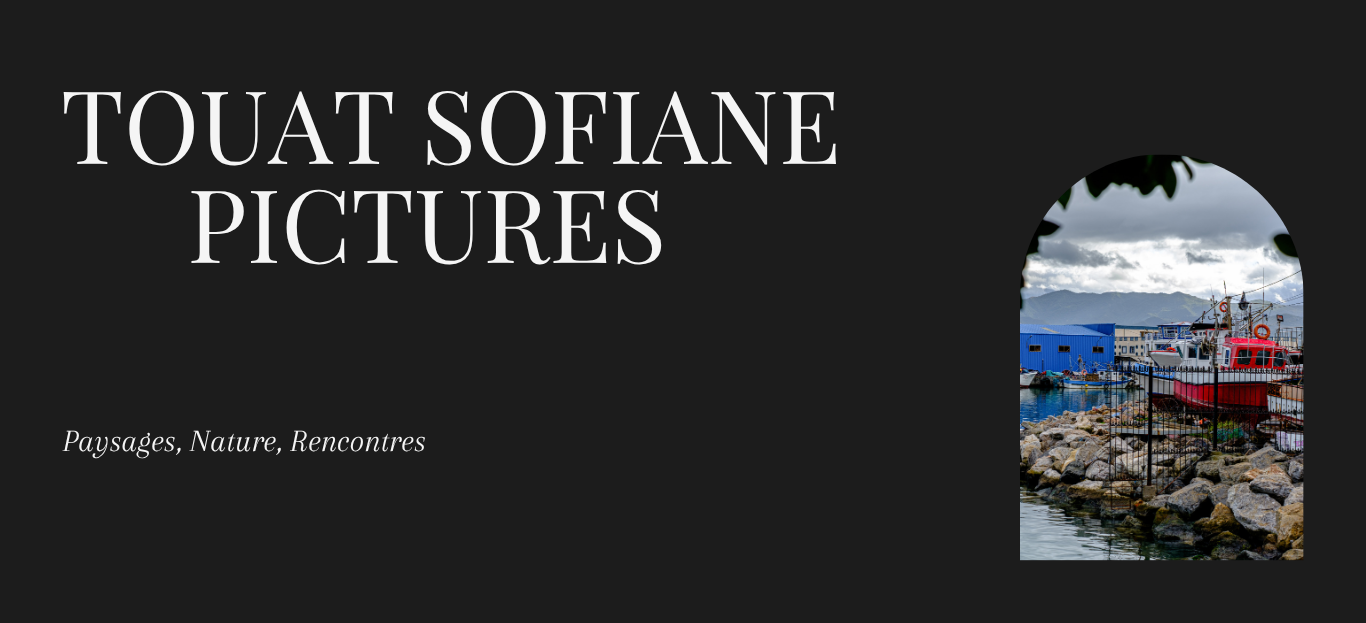
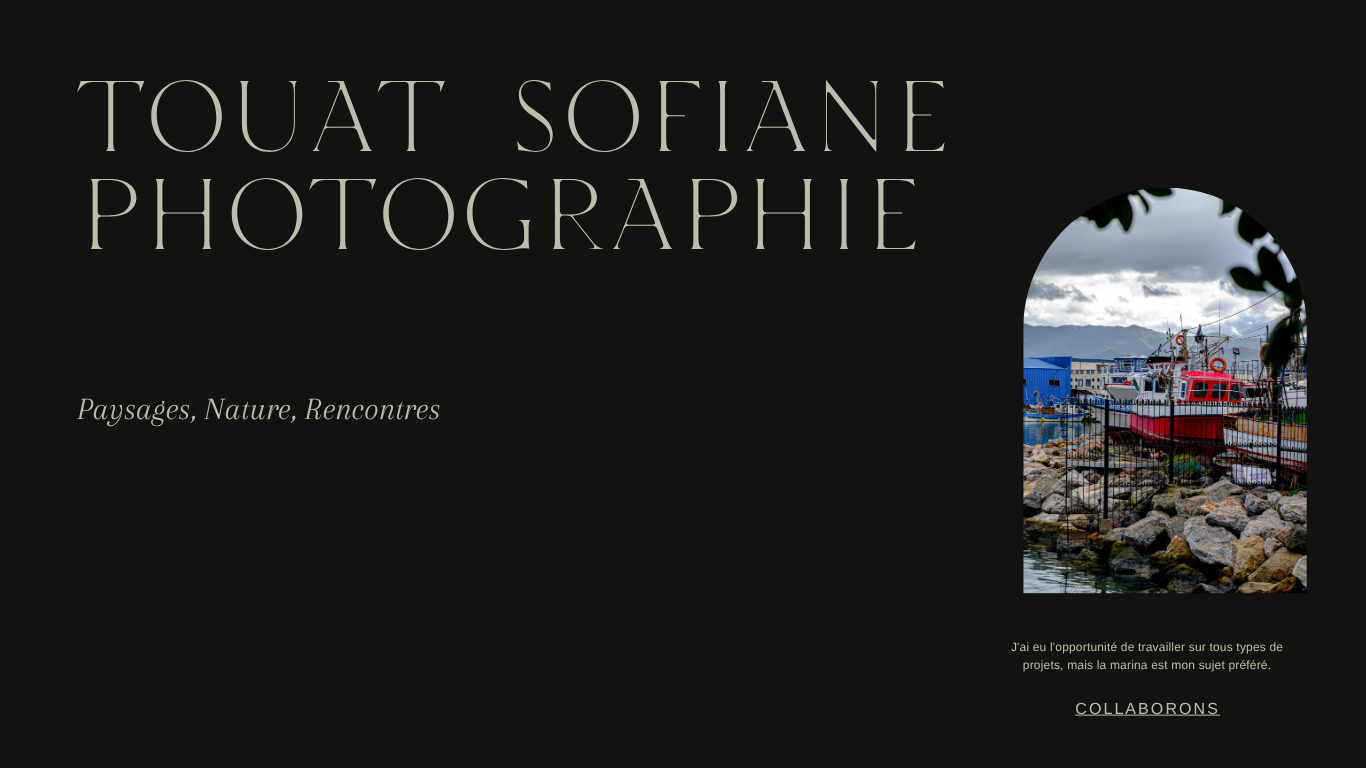
plusieurs ajouts d'images et coorectifs

diff --git a/index.html b/index.html
@@ -6,31 +6,31 @@
     <title>Sofiane's portfolio</title>
 </head>
 <!--ajout d'un background pour le site , dans le body-->
-<body style="background-color: #F5F5F5;font-family :'Segoe UI', Tahoma, Geneva, Verdana, sans-serif">
+<body style="background-color: #F5F5F5;font-family:fantasy  ">
     <header>
          <nav>   
-            <ul style="display:flex; justify-content:left;color: rgb(181,47,0); list-style:none; gap: 20px;font-size: 20px;font-family: 'Franklin Gothic Medium', 'Arial Narrow', Arial, sans-serif;">
-                <li><a href="index.html"style="color: rgb(181,47,0);">Home</a></li>
-                <li ><a href="#about" style="color: rgb(181,47,0);">About</a></li>
-                <li><a href="#work"style="color: rgb(181,47,0);">Work</a></li>
+            <ul style="display:flex; justify-content:left;color: gray; list-style:none; gap: 20px;font-size: 20px;font-family:fantasy  ">
+                <li><a href="index.html"style="color: rgb(152,152,152);">Home</a></li>
+                <li ><a href="#about" style="color: rgb(152,152,152);">About</a></li>
+                <li><a href="#work"style="color: rgb(152,152,152);">Work</a></li>
             
-                <li><a href="#resume"style="color: rgb(181,47,0);">Resume</a></li>
-                <li><a href="#contact"style="color: rgb(181,47,0);">Contact</a></li>
+                <li><a href="#resume"style="color: rgb(152,152,152);">Resume</a></li>
+                <li><a href="#contact"style="color: rgb(152,152,152);">Contact</a></li>
             </ul>
         </nav>  
         
 
 <!--ajout d'une bannière -->
         
-           <img src="images/work1.jpg" alt="banner image" style="width: 50%;
-         height:50%;margin: auto; display: block; border-radius: 20px; padding-bottom: 20px;"> 
+           <img src="images/tophead.jpg" alt="banner image" style="width: 90%;
+         height:auto;margin: 40px; display: block;"> 
          
     <!--pouvoir la styliser et en faire un cadre pour le titre H1-->
         
        
             <h1 style="text-align:center; height:100px; color: #050505;font-size: 50px;
             height: min-content;width: 800px;margin: auto;
-            border-radius: 10px; padding: 20px;text-decoration: underline;font-family:fantasy   ;"
+            border-radius: 10px; padding: 20px;text-decoration: underline;font-family:fantasy   ;background-color: #F5F5F5;"
             >Sofiane's pictures</h1>
             
        
@@ -39,39 +39,41 @@
     </header>
     <main style="margin: auto; width: 100%; padding: 10px; text-align: center; color: #1C1C1C; font-size:x-large;">
         <!-- ajout d'une section pour la partie about -->
-        <section id="about" , style="background-color: #F5F5F5; padding: 40px; border-radius: 10px; width: 800px; margin: auto; "> 
-            <p>qui suis-je ? </p>
-            <p>Je m'appelle Sofiane, je suis passionné par la photographie depuis mon enfance. 
-                J'aime capturer des moments uniques et créer des souvenirs inoubliables à travers mon objectif.
+        <section id="about" , style="background-color: #F5F5F5; padding: 40px; border-radius: 10px; width: 600px; margin: auto; border : 2px solid rgb(152,152,152);"> 
+            <h2 style="font-family:fantasy  ">Qui suis-je ? </h2>
+            <p style="font-family:fantasy  ">Je suis passionné par la photographie depuis mon enfance. 
+                J'aime capturer des moments uniques et créer des souvenirs inoubliables à travers mon objectif.<br>
                  Mon style de photographie est varié, allant des portraits aux paysages en passant par la photographie de rue.
                   Je suis toujours à la recherche de nouvelles inspirations et de défis pour améliorer mes compétences et offrir des images exceptionnelles à mes clients.
             </p>
         </section>
         <!-- ajout d'une section pour la galerie photo paysage -->    
-       <section id="work" , style="background-color: #1C1C1C; padding: 40px;padding-top: 100px; border-radius: 10px; ">  
-            <p style="color: #F5F5F5;">Paysages </p>
-            <p style="padding: 10px;color: #F5F5F5;border: 2px solid #F5F5F5">Voici une sélection de mes travaux récents en photographie. Chaque image raconte une histoire unique et reflète ma passion pour capturer la beauté du monde qui nous entoure. J'espère que vous apprécierez ces clichés autant que j'ai apprécié les prendre.</p>    
-            <img src="images/work1.jpg" alt="work1" style="width: 300px; height: 200px; margin: 10px; border-radius: 10px;border: 2px solid #F5F5F5;">
-            <img src="images/work2.jpg" alt="work2" style="width: 300px; height: 200px; margin: 10px; border-radius: 10px;border: 2px solid #F5F5F5;">
-            <img src="images/work3.jpg" alt="work3" style   ="width: 300px; height: 200px; margin: 10px; border-radius: 10px;border: 2px solid #F5F5F5;">     
-            <img src="images/work4.jpg" alt="work4" style="width: 300px; height: 200px; margin: 10px; border-radius: 10px;border: 2px solid #F5F5F5;">  
-            <img src="images/work5.jpg" alt="work5" style="width: 300px; height: 200px; margin: 10px; border-radius: 10px;border: 2px solid #F5F5F5;">  
-            <img src="images/work6.jpg" alt="work6" style="width: 300px; height: 200px; margin: 10px; border-radius: 10px;border: 2px solid #F5F5F5;">     
-            <img src="images/work7.jpg" alt="work7" style="width: 300px; height: 200px; margin: 10px; border-radius: 10px;border: 2px solid #F5F5F5;">  
-            <img src="images/work8.jpg" alt="work8" style="width: 300px; height: 200px; margin: 10px; border-radius: 10px;border: 2px solid #F5F5F5;">  
-            <img src="images/work14.jpg" alt="work14" style="width: 300px; height: 200px; margin: 10px; border-radius: 10px;border: 2px solid #F5F5F5;">  
+       <section id="work" , style="background-color: rgb(152,152,152); padding: 40px; margin: 40px; ">  
+            <h2 style="color: #1C1C1C;font-family:fantasy  ">Galerie Paysages</h2>
+            <p style="padding: 10px;color:#1C1C1C  ;">Voici une sélection de mes travaux récents en photographie. Chaque image raconte une histoire unique et reflète ma passion pour capturer la beauté du monde qui nous entoure. J'espère que vous apprécierez ces clichés autant que j'ai apprécié les prendre.</p>    
+            <img src="images/work1.jpg" alt="work1" style="width: 600px; height: 400px; margin: 10px; border-radius: 10px;border: 2px solid #F5F5F5;">
+            <img src="images/work2.jpg" alt="work2" style="width: 600px; height: 400px; margin: 10px; border-radius: 10px;border: 2px solid #F5F5F5;">
+            <img src="images/work3.jpg" alt="work3" style   ="width: 600px; height: 400px; margin: 10px; border-radius: 10px;border: 2px solid #F5F5F5;">     
+            <img src="images/work4.jpg" alt="work4" style="width: 600px; height: 400px; margin: 10px; border-radius: 10px;border: 2px solid #F5F5F5;">  
+            <img src="images/work5.jpg" alt="work5" style="width: 600px; height: 400px; margin: 10px; border-radius: 10px;border: 2px solid #F5F5F5;">  
+            <img src="images/work6.jpg" alt="work6" style="width: 600px; height: 400px; margin: 10px; border-radius: 10px;border: 2px solid #F5F5F5;">     
+            <img src="images/work7.jpg" alt="work7" style="width: 600px; height: 400px; margin: 10px; border-radius: 10px;border: 2px solid #F5F5F5;">  
+            <img src="images/work8.jpg" alt="work8" style="width: 600px; height: 400px; margin: 10px; border-radius: 10px;border: 2px solid #F5F5F5;">  
+            <img src="images/work14.jpg" alt="work14" style="width: 600px; height: 400px; margin: 10px; border-radius: 10px;border: 2px solid #F5F5F5;">  
             
             
     </section>  
         <!-- ajout d'une section pour les photos en portrait -->
-       <section id="contact" style="background-color: #1C1C1C; padding: 40px; border-radius: 10px;">
-            <p style="color: #F5F5F5;">rencontres fortuite</p>
-            <p style=" padding: 10px; color:#F5F5F5 ;border: 2px solid #F5F5F5; ;">voici une sélection de portaits de rencontres fortuite que j'ai capturées au fil de mes voyages et de mes rencontres. Chaque portrait raconte une histoire unique et reflète l'émotion du moment.</p>
-            <img src="images/work9.jpg" alt="work9" style="width: 200px; height: 300px; margin: 10px; border-radius: 30px;border: 2px solid #F5F5F5;">    
-            <img src="images/work10.jpg" alt="work10" style="width: 200px; height: 300px; margin: 10px; border-radius: 30px;border: 2px solid #F5F5F5;">  
-            <img src="images/work11.jpg" alt="work11" style="width: 200px; height: 300px; margin: 10px; border-radius: 30px;border: 2px solid #F5F5F5;">  
-            <img src="images/work12.jpg" alt="work12" style="width: 200px; height: 300px; margin: 10px; border-radius: 30px;border: 2px solid #F5F5F5;">
-            <img src="images/work13.jpg" alt="work13" style="width: 200px; height: 300px; margin: 10px; border-radius: 30px;border: 2px solid #F5F5F5;">
+       <section id="contact" style="background-color: rgb(103,103,103); padding: 10px;margin: 40px;">
+            <h2 style="color: rgb(35,35,35);">Rencontres fortuite</h2>
+            <p style=" padding: 10px; color:#1C1C1C  ;">voici une sélection de portaits 
+                de rencontres fortuite que j'ai capturées au fil de mes voyages et 
+                de mes rencontres. Chaque portrait raconte une histoire unique et reflète l'émotion du moment.</p>
+            <img src="images/work9.jpg" alt="work9" style="width: 400px; height: 600px; margin: 10px; border-radius: 30px;border: 2px solid #F5F5F5;">    
+            <img src="images/work10.jpg" alt="work10" style="width: 400px; height: 600px; margin: 10px; border-radius: 30px;border: 2px solid #F5F5F5;">  
+            <img src="images/work11.jpg" alt="work11" style="width: 400px; height: 600px; margin: 10px; border-radius: 30px;border: 2px solid #F5F5F5;">  
+            <img src="images/work12.jpg" alt="work12" style="width: 400px; height: 600px; margin: 10px; border-radius: 30px;border: 2px solid #F5F5F5;">
+            <img src="images/work13.jpg" alt="work13" style="width: 400px; height: 600px; margin: 10px; border-radius: 30px;border: 2px solid #F5F5F5;">
     </section>
         </section>
     
